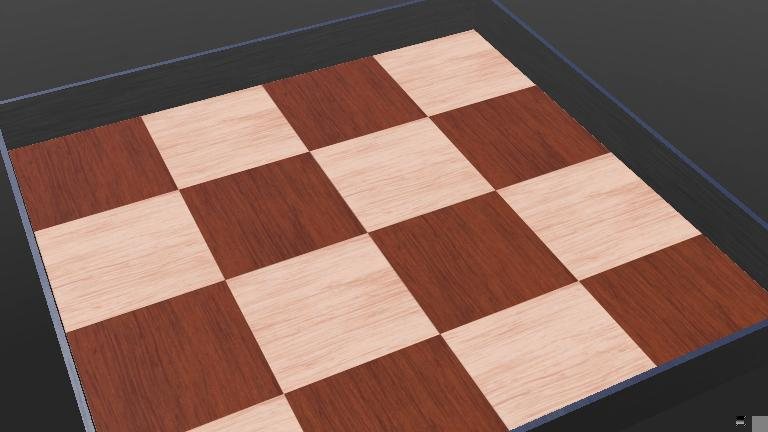
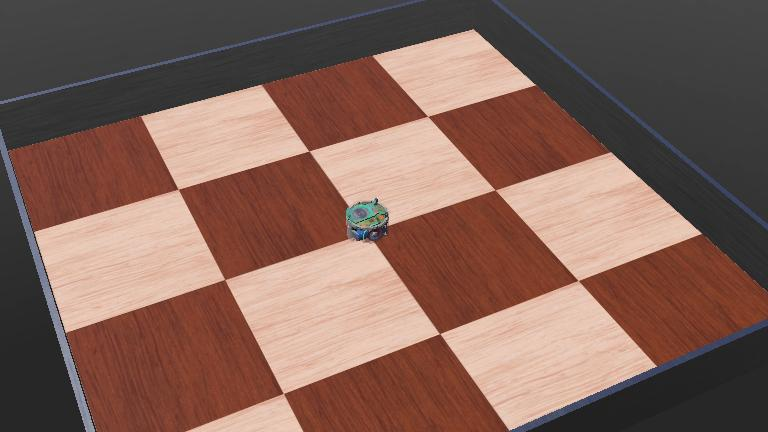
update w new controller and epuck

Changed region(s): [[0.4375, 0.4514, 0.5312, 0.5718], [0.9375, 0.963, 1.0, 1.0]]

diff --git a/controllers/racer_main/racer_main.py b/controllers/racer_main/racer_main.py
@@ -1,0 +1,32 @@
+"""racer_main controller."""
+
+# You may need to import some classes of the controller module. Ex:
+#  from controller import Robot, Motor, DistanceSensor
+from controller import Robot
+
+# create the Robot instance.
+robot = Robot()
+
+# get the time step of the current world.
+timestep = int(robot.getBasicTimeStep())
+
+# You should insert a getDevice-like function in order to get the
+# instance of a device of the robot. Something like:
+#  motor = robot.getDevice('motorname')
+#  ds = robot.getDevice('dsname')
+#  ds.enable(timestep)
+
+# Main loop:
+# - perform simulation steps until Webots is stopping the controller
+while robot.step(timestep) != -1:
+    # Read the sensors:
+    # Enter here functions to read sensor data, like:
+    #  val = ds.getValue()
+
+    # Process sensor data here.
+
+    # Enter here functions to send actuator commands, like:
+    #  motor.setPosition(10.0)
+    pass
+
+# Enter here exit cleanup code.
